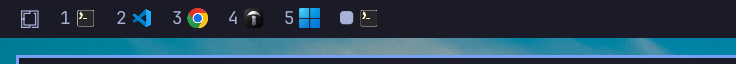
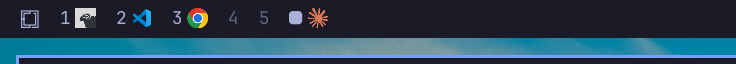
Show the program running inside terminal windows

Changed region(s): [[0.3125, 0.125, 0.5312, 0.4375], [0.0938, 0.125, 0.1562, 0.4375]]

diff --git a/Workspaces.qml b/Workspaces.qml
@@ -2,6 +2,7 @@ import QtQuick
 import QtQuick.Layouts
 import Quickshell
 import Quickshell.Hyprland
+import Quickshell.Io
 import qs.Commons
 import qs.Ui
 
@@ -43,10 +44,94 @@ BarWidget {
   // apps without a desktop entry. Set inline in shell.json (see README).
   readonly property var iconOverrides: setting("iconOverrides", ({}))
 
+  readonly property bool showTerminalPrograms: setting("showTerminalPrograms", true) !== false
+  readonly property var shells: ["bash", "zsh", "fish", "sh", "dash", "nu", "xonsh", "elvish", "ksh", "tcsh"]
+  // Terminal window pid -> name of the program in the terminal's foreground.
+  property var terminalPrograms: ({})
+
   function windowInfo(toplevel) {
     var ipc = toplevel.lastIpcObject || {}
     var appId = toplevel.wayland && toplevel.wayland.appId ? toplevel.wayland.appId : String(ipc.class || "")
-    return { appId: appId, initialClass: String(ipc.initialClass || ""), initialTitle: String(ipc.initialTitle || "") }
+    return {
+      appId: appId,
+      initialClass: String(ipc.initialClass || ""),
+      initialTitle: String(ipc.initialTitle || ""),
+      pid: Number(ipc.pid || 0)
+    }
+  }
+
+  function isTerminalEntry(name) {
+    if (!name) return false
+    var entry = DesktopEntries.heuristicLookup(name)
+    return !!entry && !!entry.categories && entry.categories.indexOf("TerminalEmulator") !== -1
+  }
+
+  // Terminals launched with a custom app id (e.g. `foot --app-id=x`) still
+  // carry the terminal's name as their initial title.
+  function isTerminal(info) {
+    return root.isTerminalEntry(info.appId) || root.isTerminalEntry(info.initialClass) || root.isTerminalEntry(info.initialTitle)
+  }
+
+  function programIcon(name) {
+    if (!name || root.shells.indexOf(name) !== -1) return ""
+    var override = root.iconOverrides[name]
+    if (override) return root.themedIcon(String(override))
+    return root.entryIcon(name) || root.themedIcon(name)
+  }
+
+  function terminalPids() {
+    var pids = []
+    var values = Hyprland.toplevels.values
+    for (var i = 0; i < values.length; i++) {
+      var info = root.windowInfo(values[i])
+      if (info.pid > 0 && root.isTerminal(info)) pids.push(String(info.pid))
+    }
+    return pids
+  }
+
+  function refreshTerminalPrograms() {
+    if (!root.showIcons || !root.showTerminalPrograms || programProbe.running) return
+    var pids = root.terminalPids()
+    if (pids.length === 0) {
+      root.terminalPrograms = ({})
+      return
+    }
+    programProbe.command = ["bash", "-c", root.probeScript, "probe"].concat(pids)
+    programProbe.running = true
+  }
+
+  // For each terminal pid, print the foreground program on the terminal's tty.
+  readonly property string probeScript: 'for pid in "$@"; do\n'
+    + '  name=""\n'
+    + '  child=$(cat /proc/"$pid"/task/*/children 2>/dev/null | tr " " "\\n" | grep -m1 .)\n'
+    + '  if [ -n "$child" ] && stat=$(cat /proc/"$child"/stat 2>/dev/null); then\n'
+    + '    set -- ${stat##*) }\n'
+    + '    [ "${6:-0}" -gt 0 ] && name=$(cat /proc/"$6"/comm 2>/dev/null)\n'
+    + '  fi\n'
+    + '  echo "$pid $name"\n'
+    + 'done\n'
+
+  Process {
+    id: programProbe
+    stdout: StdioCollector {
+      onStreamFinished: {
+        var next = ({})
+        var lines = this.text.split("\n")
+        for (var i = 0; i < lines.length; i++) {
+          var parts = lines[i].trim().split(" ")
+          if (parts[0]) next[parts[0]] = parts.slice(1).join(" ")
+        }
+        if (JSON.stringify(next) !== JSON.stringify(root.terminalPrograms)) root.terminalPrograms = next
+      }
+    }
+  }
+
+  Timer {
+    interval: Math.max(1, Number(root.setting("terminalPollSeconds", 2))) * 1000
+    running: root.showIcons && root.showTerminalPrograms
+    repeat: true
+    triggeredOnStart: true
+    onTriggered: root.refreshTerminalPrograms()
   }
 
   function themedIcon(name) {
@@ -65,6 +150,11 @@ BarWidget {
     var override = root.iconOverrides[info.appId]
     if (override) return root.themedIcon(String(override))
 
+    if (root.showTerminalPrograms && root.isTerminal(info)) {
+      var program = root.programIcon(root.terminalPrograms[String(info.pid)])
+      if (program) return program
+    }
+
     var path = root.entryIcon(info.appId)
       || root.themedIcon(info.appId)
       || root.themedIcon(info.appId.toLowerCase())
@@ -75,7 +165,7 @@ BarWidget {
     return path || Quickshell.iconPath("application-x-executable", true)
   }
 
-  // One icon per distinct app on the workspace, in window order.
+  // One icon per distinct app (or terminal program) on the workspace, in window order.
   function workspaceIcons(workspace) {
     if (workspace === null || !root.showIcons) return []
     var seen = []
@@ -83,9 +173,11 @@ BarWidget {
     var toplevels = workspace.toplevels.values
     for (var i = 0; i < toplevels.length && icons.length < root.maxIcons; i++) {
       var info = root.windowInfo(toplevels[i])
-      if (info.appId === "" || seen.indexOf(info.appId) !== -1) continue
-      seen.push(info.appId)
-      icons.push(root.iconFor(info))
+      if (info.appId === "") continue
+      var icon = root.iconFor(info)
+      if (seen.indexOf(icon) !== -1) continue
+      seen.push(icon)
+      icons.push(icon)
     }
     return icons
   }

diff --git a/README.md b/README.md
@@ -27,7 +27,9 @@ Then swap the stock widget for this one in `~/.config/omarchy/shell.json`:
 | `showIcons`     | `true`  | Show app icons next to the workspace numbers.       |
 | `maxIcons`      | `4`     | Maximum icons per workspace (one per distinct app). |
 | `iconScale`     | `1.15`  | Icon size relative to the bar font size.            |
-| `iconOverrides` | `{}`    | Window class → icon name or absolute image path.    |
+| `showTerminalPrograms` | `true` | Show the program running in a terminal instead of the terminal icon. |
+| `terminalPollSeconds`  | `2`    | How often to check what runs in terminals.          |
+| `iconOverrides` | `{}`    | Window class or program name → icon name or absolute image path. |
 
 Icons are looked up from the app's desktop entry, then the icon theme. Apps
 without either show a generic icon; give them one with `iconOverrides`:
@@ -44,6 +46,18 @@ without either show a generic icon; give them one with `iconOverrides`:
 ```
 
 Find a window's class with `hyprctl clients`.
+
+## Programs in terminals
+
+For terminal windows (any app whose desktop entry is a `TerminalEmulator`), the
+widget shows the program in the terminal's foreground, such as `nvim` or
+`btop`. A plain shell keeps the terminal icon.
+
+Programs are matched by process name. Programs without an icon in your theme
+fall back to the terminal icon. Give them one either with `iconOverrides`
+(`"claude": "/path/to/claude.svg"`), or by dropping an SVG named after the
+program into `~/.local/share/icons/hicolor/scalable/apps/`, e.g.
+`~/.local/share/icons/hicolor/scalable/apps/claude.svg`.
 
 ## Notes
 
